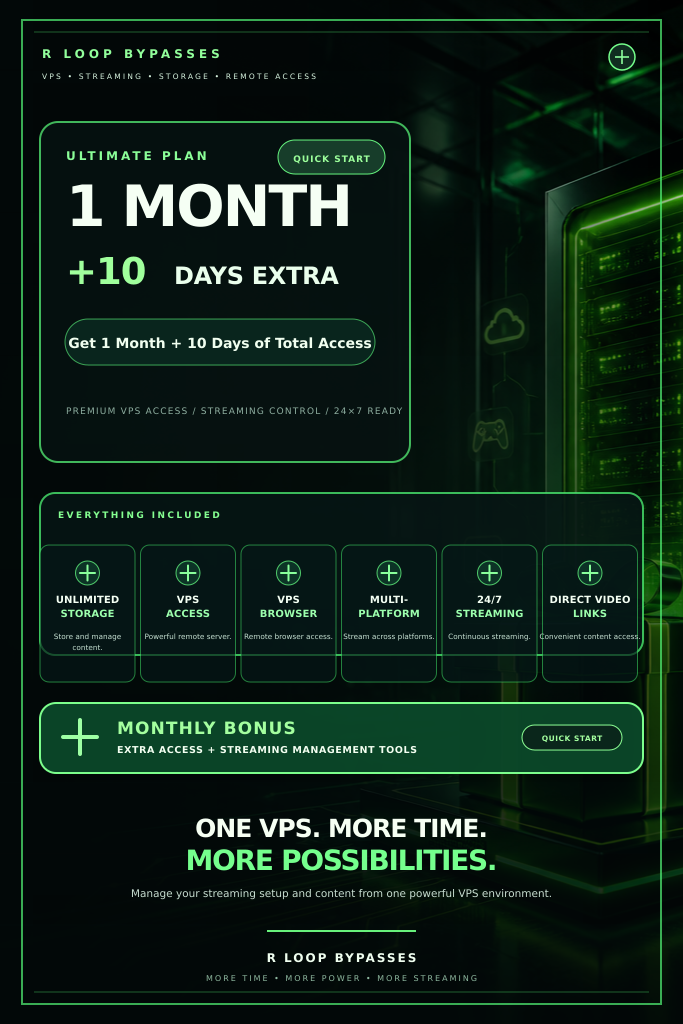
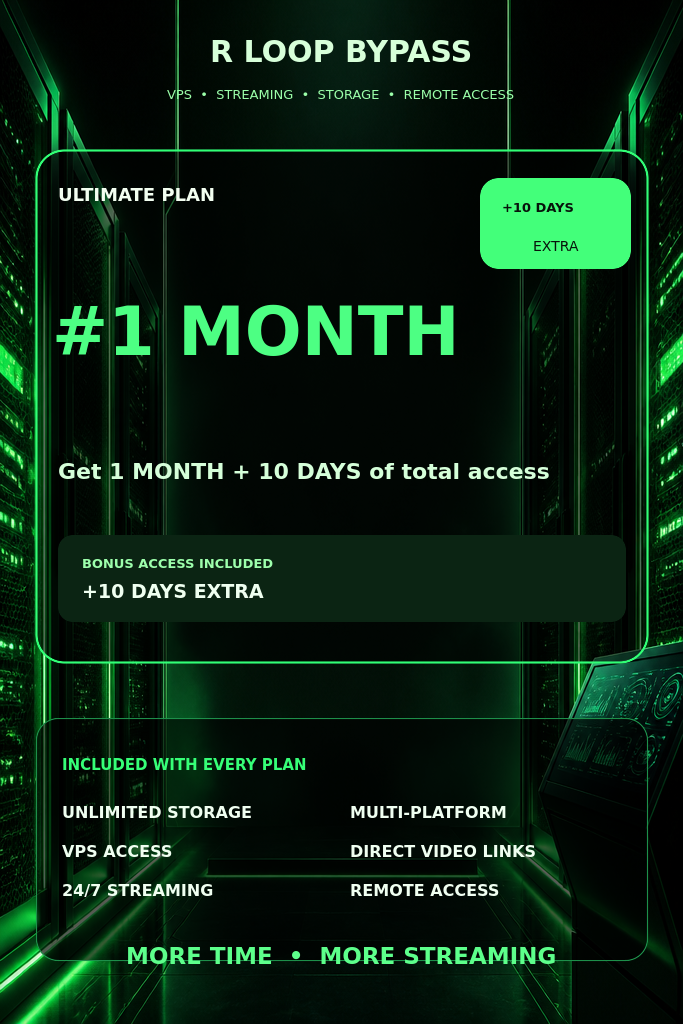
Update public page layout and add subscription plan assets
Replit-Commit-Author: Agent

diff --git a/artifacts/live/src/pages/public.tsx b/artifacts/live/src/pages/public.tsx
@@ -7,7 +7,6 @@ import logoImage from "@assets/image_1788788255512.png";
 import planOneMonthPoster from "@assets/generated_images/rloop-plan-1-month-poster.png";
 import planThreeMonthsPoster from "@assets/generated_images/rloop-plan-3-months-poster.png";
 import planSixMonthsPoster from "@assets/generated_images/rloop-plan-6-months-poster.png";
-import planOneYearPoster from "@assets/generated_images/rloop-plan-1-year-poster.png";
 import loopControlArtwork from "@assets/loopstream_reference/feature-loop-control.jpeg";
 import streamingArtwork from "@assets/loopstream_reference/feature-24x7-streaming.jpeg";
 import playlistArtwork from "@assets/loopstream_reference/feature-playlist-builder.jpeg";
@@ -364,24 +363,26 @@ function MonthlyOfferCountdown() {
 const accessPlans = [
   {
     term: "1 month",
+    bonus: "10 days extra",
+    totalAccess: "1 month + 10 days",
     image: planOneMonthPoster,
   },
   {
     term: "3 months",
+    bonus: "1 month extra",
+    totalAccess: "3 months + 1 month",
     image: planThreeMonthsPoster,
   },
   {
     term: "6 months",
+    bonus: "2 months extra",
+    totalAccess: "6 months + 2 months",
     image: planSixMonthsPoster,
-  },
-  {
-    term: "1 year",
-    image: planOneYearPoster,
   },
 ];
 
 function PlanOfferSlider() {
-  const [activePlan, setActivePlan] = useState(3);
+  const [activePlan, setActivePlan] = useState(2);
   const [isInteracting, setIsInteracting] = useState(false);
   const [dragStart, setDragStart] = useState<number | null>(null);
   const [slideDirection, setSlideDirection] = useState(1);
@@ -441,7 +442,7 @@ function PlanOfferSlider() {
       <p>Swipe through the complete offer posters to choose your access window.</p>
     </div>
     <div className="plan-offer-shell">
-      <div className="plan-offer-status"><span className="monitor-led" /> ACCESS WINDOW / {String(activePlan + 1).padStart(2, "0")} OF 04 <span className="plan-offer-status-line" /></div>
+       <div className="plan-offer-status"><span className="monitor-led" /> ACCESS WINDOW / {String(activePlan + 1).padStart(2, "0")} OF {String(accessPlans.length).padStart(2, "0")} <span className="plan-offer-status-line" /></div>
       <div
         className="plan-offer-viewport"
         onPointerDown={handlePointerDown}
@@ -458,8 +459,8 @@ function PlanOfferSlider() {
              exit={reducedMotion ? { opacity: 0 } : { opacity: 0, x: slideDirection > 0 ? 26 : -26 }}
             transition={{ duration: reducedMotion ? 0.01 : 0.42, ease }}
           >
-            <Link href="/pricing" className="plan-offer-poster-link" data-testid={`link-plan-offer-${activePlan}`} onClick={() => setIsInteracting(true)}>
-              <img className="plan-offer-poster" src={currentPlan.image} alt={`${currentPlan.term} premium access offer poster with plan bonus, total access, included features, and streaming benefits`} />
+             <Link href="/pricing" className="plan-offer-poster-link" data-testid={`link-plan-offer-${activePlan}`} onClick={() => setIsInteracting(true)}>
+               <img className="plan-offer-poster" src={currentPlan.image} alt={`${currentPlan.term} premium access offer poster with ${currentPlan.bonus} and ${currentPlan.totalAccess} total access`} />
             </Link>
           </motion.article>
         </AnimatePresence>
